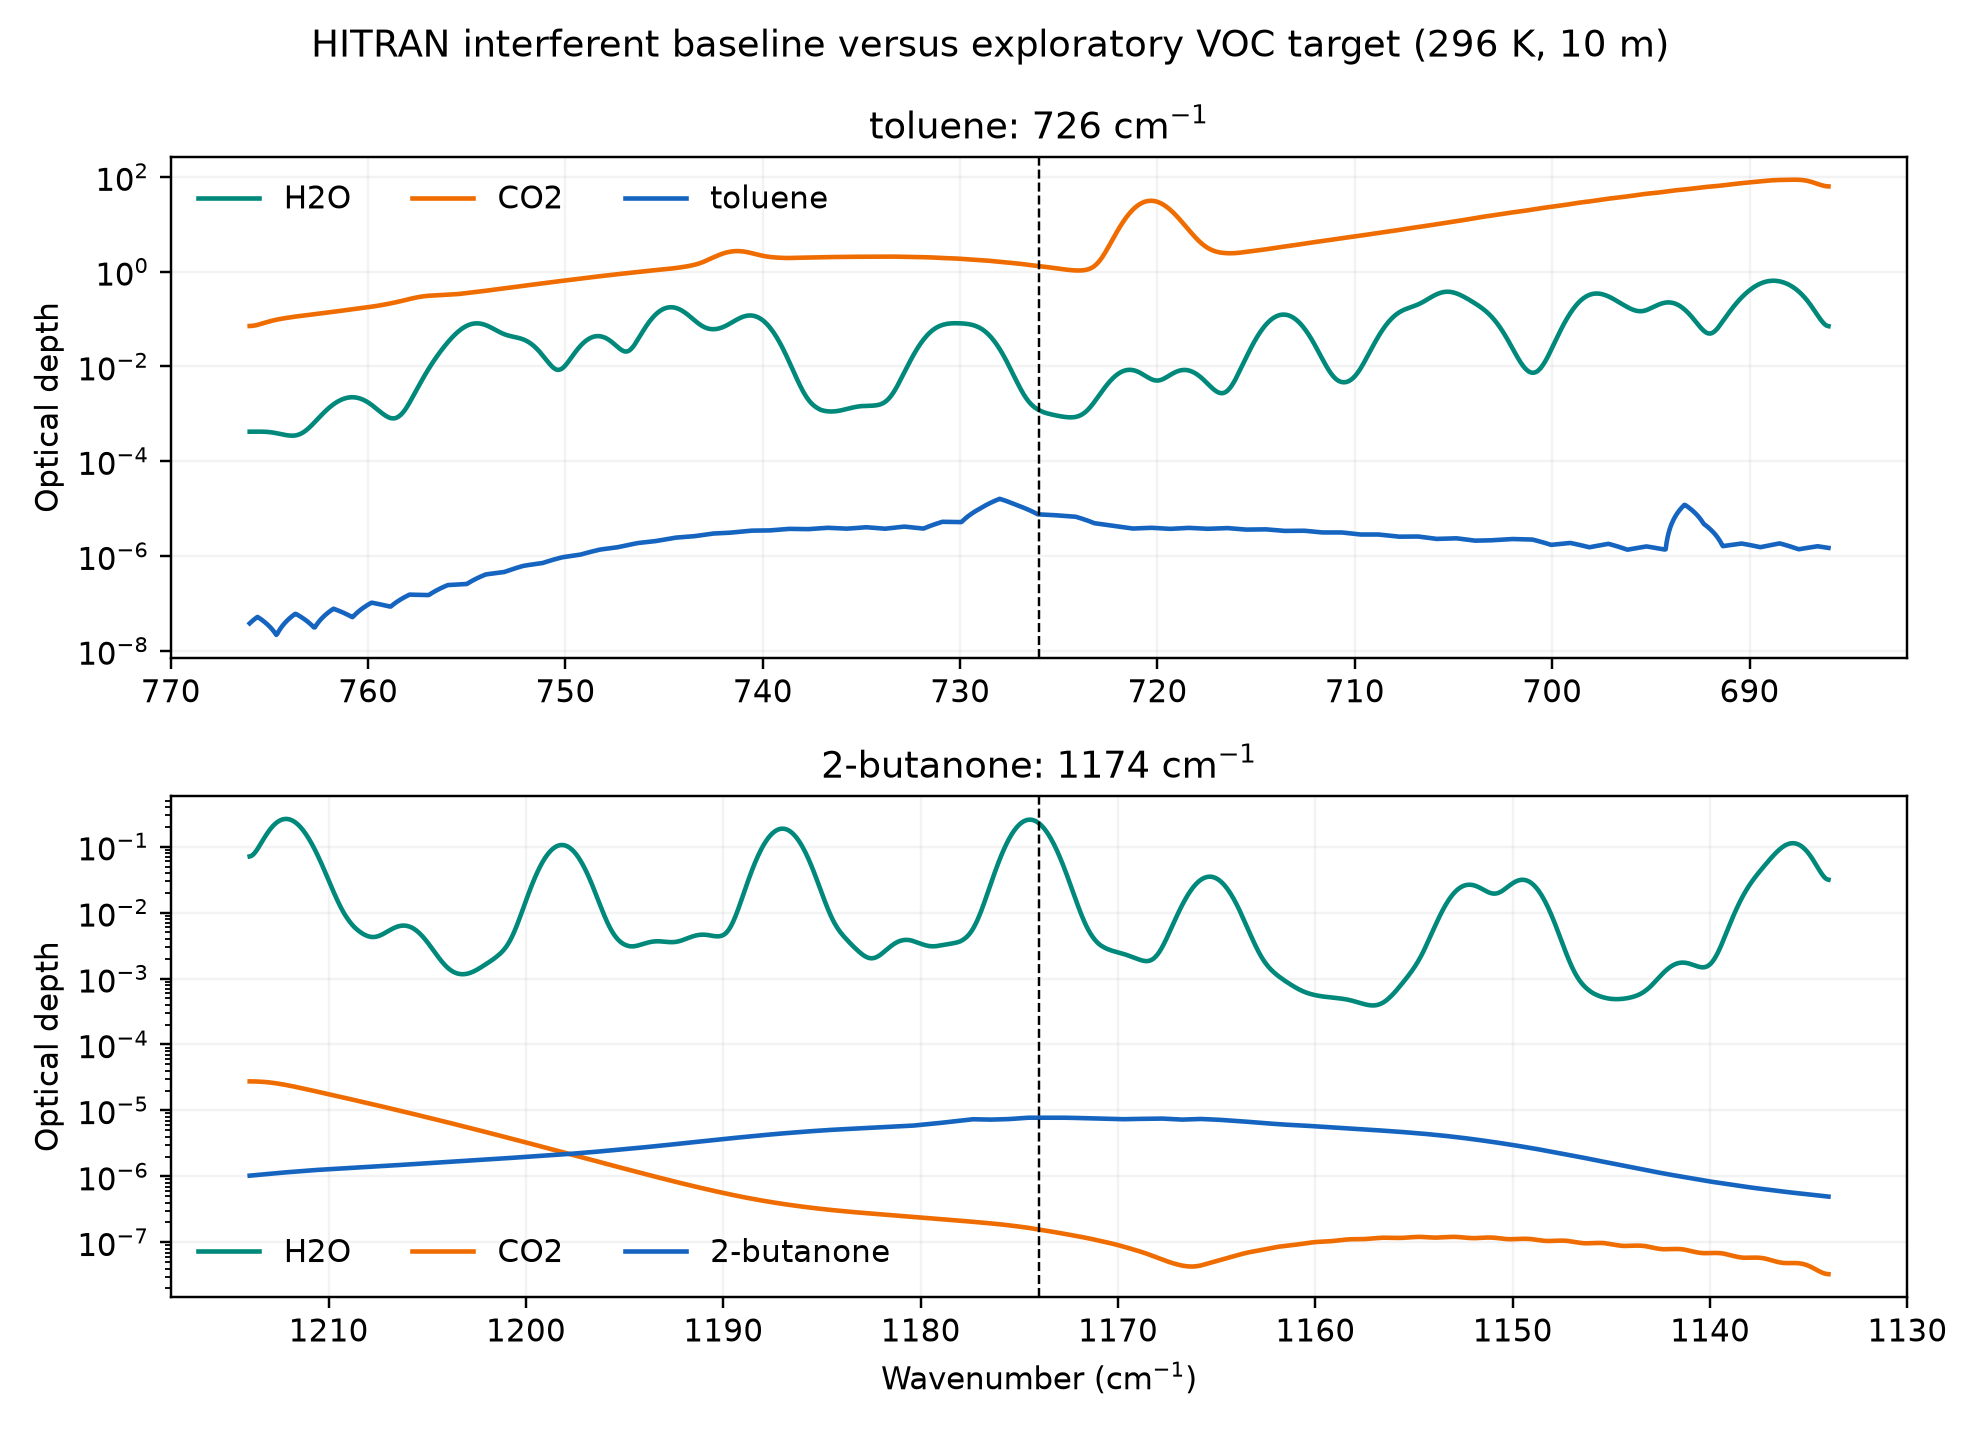
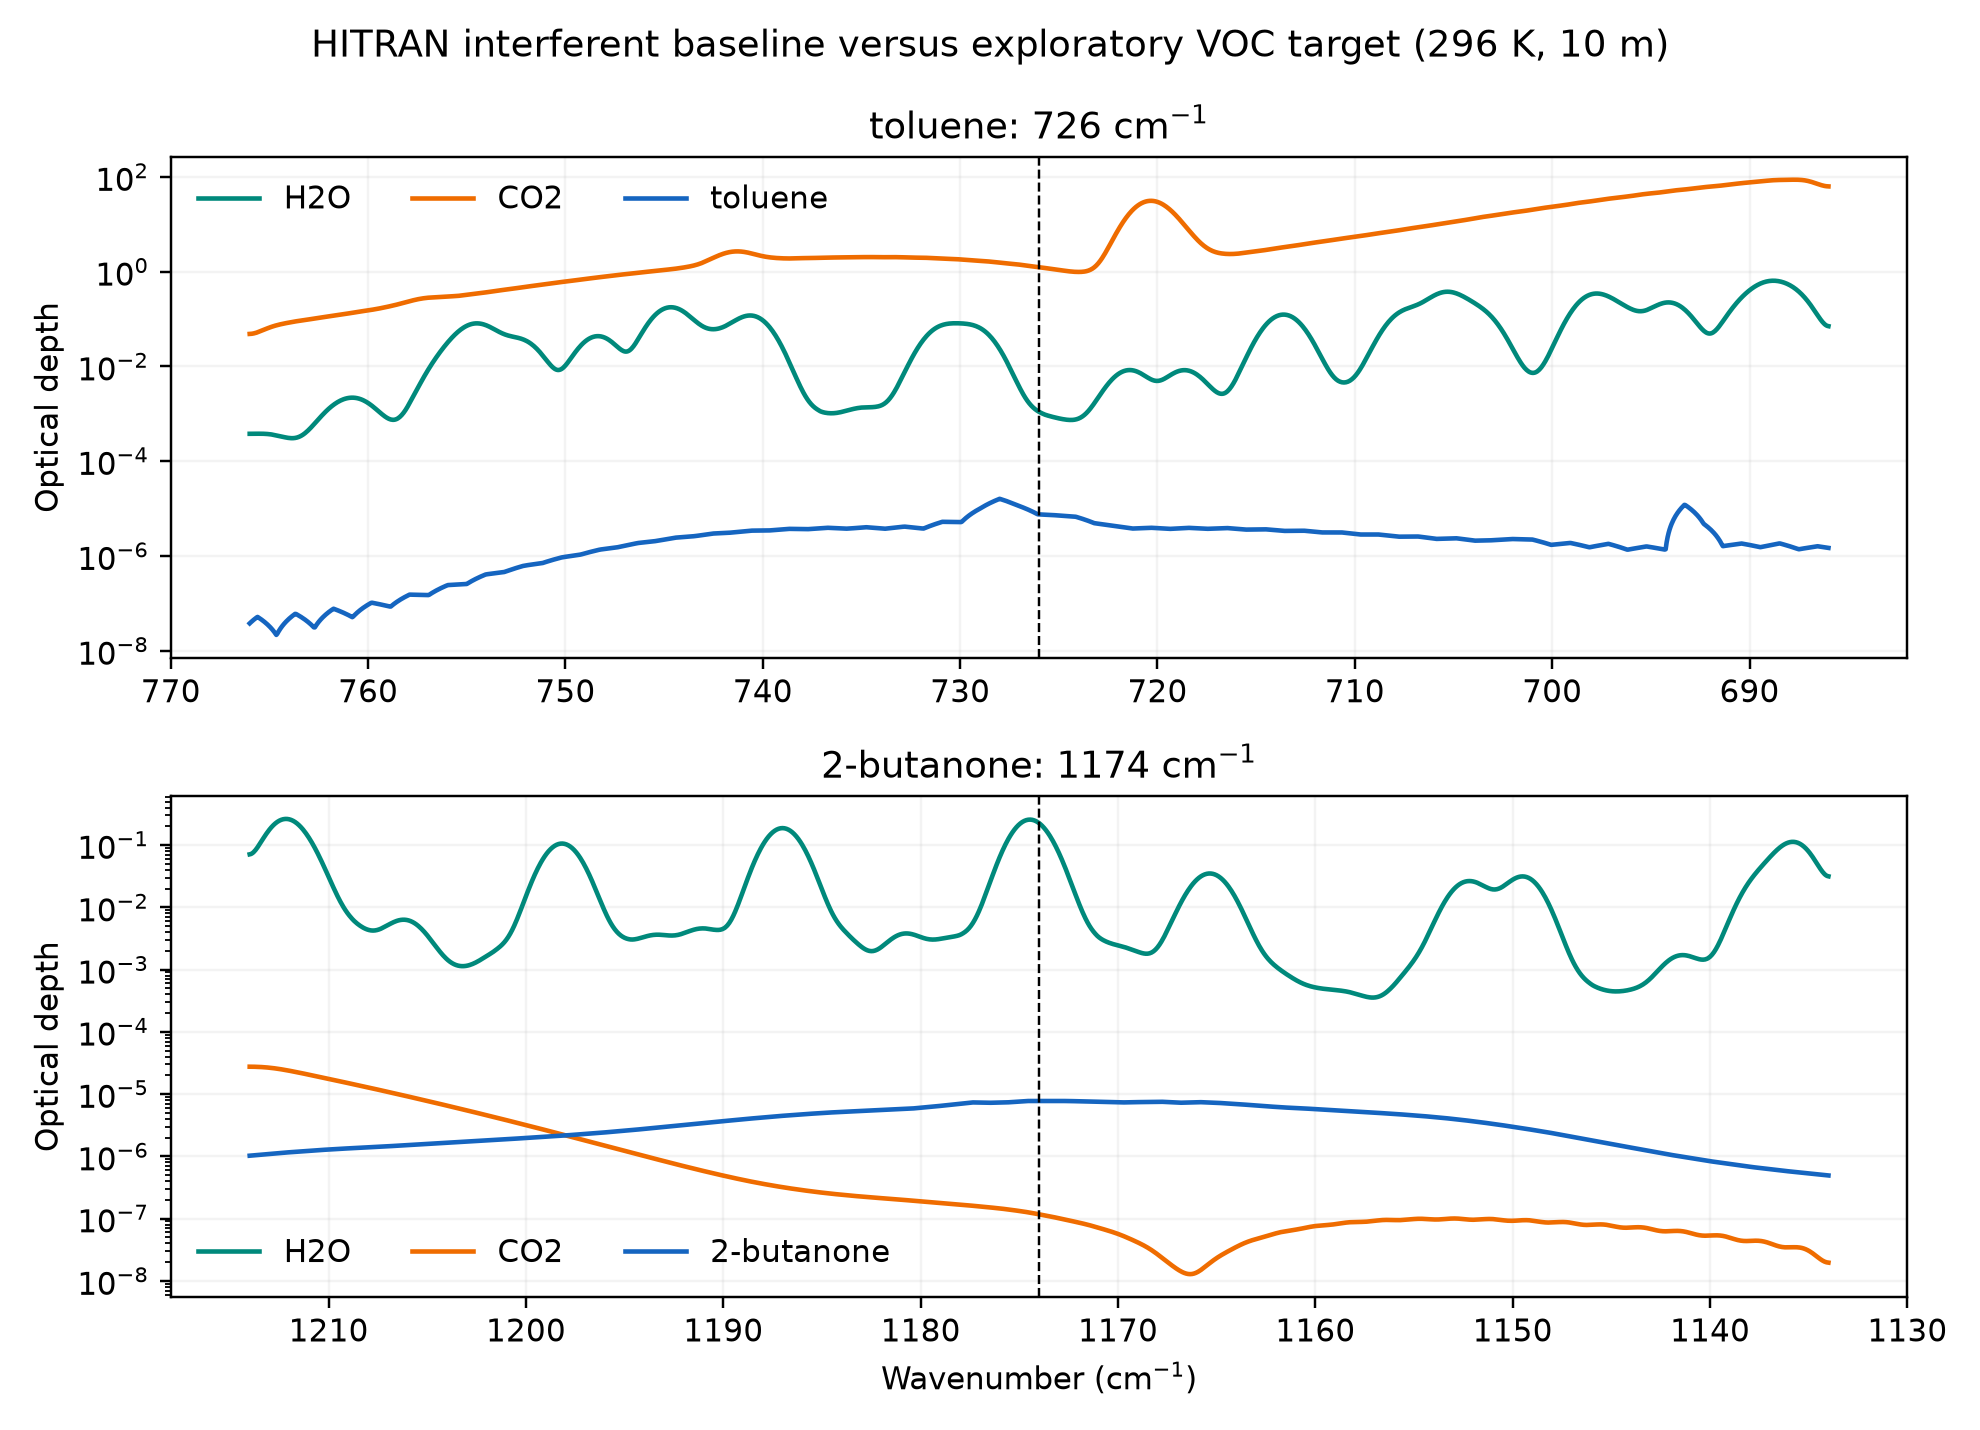
Search for lower-interference spectral windows

diff --git a/src/breath_to_photonics/window_search.py b/src/breath_to_photonics/window_search.py
@@ -1,0 +1,196 @@
+"""Search quantitative target spectra for lower-interference HITRAN windows."""
+
+from __future__ import annotations
+
+import argparse
+import json
+from pathlib import Path
+
+import matplotlib.pyplot as plt
+import numpy as np
+import pandas as pd
+from scipy.signal import find_peaks
+
+from .hitran_interference import (
+    instrument_convolve,
+    lorentz_cross_section,
+    number_density_cm3,
+    read_hitran_160,
+)
+from .resolution import broaden
+from .spectra import read_jcamp
+
+
+def search_windows(
+    hitran_root: Path,
+    target_root: Path,
+    hitran_config: dict[str, object],
+    search_config: dict[str, object],
+) -> tuple[pd.DataFrame, dict[str, object]]:
+    lines = read_hitran_160(hitran_root / hitran_config["hitran_file"])
+    lo, hi = [float(value) for value in search_config["search_range_cm-1"]]
+    step = float(hitran_config["grid_step_cm-1"])
+    grid = np.arange(lo, hi + step / 2.0, step)
+    pressure = float(hitran_config["pressure_atm"])
+    temperature = float(hitran_config["temperature_K"])
+    path_m = float(hitran_config["path_length_m"])
+    path_cm = path_m * 100.0
+    fwhm = float(hitran_config["instrument_fwhm_cm-1"])
+    wing = float(hitran_config["line_wing_cm-1"])
+    fractions = hitran_config["mole_fractions"]
+
+    optical_depths = {}
+    for gas, molecule_id in {"H2O": 1, "CO2": 2}.items():
+        fraction = float(fractions[gas])
+        cross_section = lorentz_cross_section(
+            lines.loc[lines["molecule_id"].eq(molecule_id)],
+            grid,
+            fraction,
+            pressure,
+            wing,
+        )
+        cross_section = instrument_convolve(cross_section, step, fwhm)
+        optical_depths[gas] = (
+            cross_section
+            * number_density_cm3(fraction, pressure, temperature)
+            * path_cm
+        )
+    interferent_tau = optical_depths["H2O"] + optical_depths["CO2"]
+    background_transmission = np.exp(-interferent_tau)
+
+    rows = []
+    floor = float(search_config["score_floor_optical_depth"])
+    for item in hitran_config["windows"]:
+        headers, target = read_jcamp(target_root / item["target_quant_file"])
+        target_values = broaden(
+            target["absorbance"].clip(lower=0.0).to_numpy(),
+            float(headers["DELTAX"]),
+            float(headers["RESOLUTION"]),
+            fwhm,
+        )
+        coefficient = np.interp(grid, target["wavenumber_cm-1"], target_values)
+        target_tau = (
+            np.log(10.0)
+            * coefficient
+            * float(item["target_concentration_ppb"])
+            / 1000.0
+            * path_m
+        )
+        prominence = float(search_config["minimum_relative_peak_prominence"]) * float(coefficient.max())
+        distance = max(1, int(float(search_config["minimum_peak_spacing_cm-1"]) / step))
+        peaks, properties = find_peaks(coefficient, prominence=prominence, distance=distance)
+        for peak, peak_prominence in zip(peaks, properties["prominences"]):
+            score = target_tau[peak] * background_transmission[peak] / (interferent_tau[peak] + floor)
+            rows.append(
+                {
+                    "voc": item["voc"],
+                    "name": item["name"],
+                    "center_cm-1": round(float(grid[peak]), 3),
+                    "center_um": round(10000.0 / float(grid[peak]), 4),
+                    "target_optical_depth": float(target_tau[peak]),
+                    "H2O_optical_depth": float(optical_depths["H2O"][peak]),
+                    "CO2_optical_depth": float(optical_depths["CO2"][peak]),
+                    "background_transmission": float(background_transmission[peak]),
+                    "target_peak_prominence": float(peak_prominence),
+                    "search_score": float(score),
+                }
+            )
+    result = pd.DataFrame(rows)
+    result["rank_within_voc"] = result.groupby("voc")["search_score"].rank(
+        ascending=False, method="first"
+    ).astype(int)
+    result = result.sort_values(["voc", "rank_within_voc"])
+    maximum_rank = int(search_config["maximum_rank_per_target"])
+    result = result.loc[result["rank_within_voc"].le(maximum_rank)].copy()
+    best = result.loc[result["rank_within_voc"].eq(1)]
+    summary = {
+        "status": "alternative_window_search_at_296K",
+        "search_range_cm-1": [lo, hi],
+        "best_windows": best[
+            [
+                "voc",
+                "center_cm-1",
+                "center_um",
+                "target_optical_depth",
+                "H2O_optical_depth",
+                "CO2_optical_depth",
+                "background_transmission",
+                "search_score",
+            ]
+        ].to_dict("records"),
+        "warning": search_config["warning"],
+    }
+    return result, summary
+
+
+def plot_candidates(table: pd.DataFrame, output: Path) -> None:
+    fig, axes = plt.subplots(
+        len(table["voc"].unique()),
+        1,
+        figsize=(9, 6.5),
+        squeeze=False,
+        layout="constrained",
+    )
+    for ax, (voc, group) in zip(axes[:, 0], table.groupby("voc", sort=False)):
+        scatter = ax.scatter(
+            group["center_cm-1"],
+            group["target_optical_depth"],
+            c=group["background_transmission"],
+            s=90 / np.sqrt(group["rank_within_voc"]),
+            cmap="viridis",
+            vmin=0,
+            vmax=1,
+        )
+        best = group.loc[group["rank_within_voc"].eq(1)].iloc[0]
+        ax.annotate(
+            f"best proxy: {best['center_cm-1']:.1f} cm$^{{-1}}$",
+            (best["center_cm-1"], best["target_optical_depth"]),
+            xytext=(8, 8),
+            textcoords="offset points",
+        )
+        ax.set_yscale("log")
+        ax.set_ylabel("Target optical depth")
+        ax.set_title(group.iloc[0]["name"])
+        ax.grid(alpha=0.15)
+        ax.invert_xaxis()
+    axes[-1, 0].set_xlabel("Candidate peak center (cm$^{-1}$)")
+    fig.colorbar(
+        scatter,
+        ax=axes[:, 0],
+        label="H2O + CO2 background transmission",
+        pad=0.03,
+        shrink=0.9,
+    )
+    fig.suptitle("Alternative-window search proxy (296 K baseline, 10 m)")
+    output.parent.mkdir(parents=True, exist_ok=True)
+    fig.savefig(output, dpi=220)
+    plt.close(fig)
+
+
+def main() -> None:
+    parser = argparse.ArgumentParser(description=__doc__)
+    parser.add_argument("hitran_root", type=Path)
+    parser.add_argument("target_root", type=Path)
+    parser.add_argument(
+        "--config", type=Path, default=Path("configs/alternative_window_search_v0.1.json")
+    )
+    parser.add_argument("--output", type=Path, default=Path("results/alternative_windows.csv"))
+    parser.add_argument(
+        "--summary", type=Path, default=Path("results/alternative_windows_summary.json")
+    )
+    parser.add_argument(
+        "--figure", type=Path, default=Path("results/figures/alternative_windows.png")
+    )
+    args = parser.parse_args()
+    search_config = json.loads(args.config.read_text(encoding="utf-8"))
+    hitran_config = json.loads(Path(search_config["hitran_config"]).read_text(encoding="utf-8"))
+    table, summary = search_windows(args.hitran_root, args.target_root, hitran_config, search_config)
+    args.output.parent.mkdir(parents=True, exist_ok=True)
+    table.to_csv(args.output, index=False)
+    args.summary.write_text(json.dumps(summary, indent=2) + "\n", encoding="utf-8")
+    plot_candidates(table, args.figure)
+    print(json.dumps(summary, indent=2))
+
+
+if __name__ == "__main__":
+    main()

diff --git a/tests/test_window_search.py b/tests/test_window_search.py
@@ -1,0 +1,19 @@
+import json
+from pathlib import Path
+
+import pytest
+
+from breath_to_photonics.window_search import search_windows
+
+
+def test_window_search_returns_ranked_candidates_when_raw_data_exist() -> None:
+    hitran_root = Path("data/raw/hitran")
+    target_root = Path("data/raw/spectra/nist-quant")
+    if not (hitran_root / "6a9e3e2d/6a9e3e2d.par").exists():
+        pytest.skip("Downloaded raw spectra are unavailable")
+    hitran_config = json.loads(Path("configs/hitran_interference_v0.1.json").read_text())
+    search_config = json.loads(Path("configs/alternative_window_search_v0.1.json").read_text())
+    table, summary = search_windows(hitran_root, target_root, hitran_config, search_config)
+    assert summary["status"] == "alternative_window_search_at_296K"
+    assert set(table.loc[table["rank_within_voc"].eq(1), "voc"]) == {"Toluene", "X2_Butanone"}
+    assert table["background_transmission"].between(0, 1).all()

diff --git a/src/breath_to_photonics/hitran_interference.py b/src/breath_to_photonics/hitran_interference.py
@@ -65,7 +65,13 @@ def lorentz_cross_section(
     for line_center, intensity, gamma_air, gamma_self, delta_air in numeric:
         gamma = pressure_atm * (gamma_air * air_fraction + gamma_self * mole_fraction)
         center = line_center + pressure_atm * air_fraction * delta_air
-        output += intensity * gamma / (np.pi * ((grid - center) ** 2 + gamma**2))
+        start = int(np.searchsorted(grid, center - wing_cm1, side="left"))
+        stop = int(np.searchsorted(grid, center + wing_cm1, side="right"))
+        if start < stop:
+            local_grid = grid[start:stop]
+            output[start:stop] += intensity * gamma / (
+                np.pi * ((local_grid - center) ** 2 + gamma**2)
+            )
     return output
 
 

diff --git a/docs/ALTERNATIVE_WINDOW_SEARCH_2026-09-07.md b/docs/ALTERNATIVE_WINDOW_SEARCH_2026-09-07.md
@@ -1,0 +1,35 @@
+# Alternative spectral-window search — 2026-09-07
+
+## Question
+
+After the original 726 and 1174 cm⁻¹ centers failed the quantitative H2O/CO2 baseline, can another target peak within the downloaded 650–1250 cm⁻¹ range materially reduce interference?
+
+The search evaluates peaks in the quantitative 2 cm⁻¹ NIST target spectra. Its ranking proxy rewards target optical depth and background transmission while penalizing combined H2O/CO2 optical depth. Conditions and limitations remain those of the 296 K HITRAN baseline.
+
+## Best alternatives in the downloaded range
+
+| Target | Alternative center | Background transmission | Target optical depth | Interferent/target ratio |
+|---|---:|---:|---:|---:|
+| Toluene | 1030.75 cm⁻¹ (9.7017 µm) | 99.25% | 1.06×10⁻⁶ | approximately 7,150 |
+| 2-butanone | 939.20 cm⁻¹ (10.6474 µm) | 99.03% | 1.56×10⁻⁶ | approximately 6,240 |
+
+These alternatives are substantially less opaque than the original centers: most incident light remains after the assumed 10 m background path. However, the interferent optical depth is still thousands of times larger than the ppbv target optical depth. They are therefore better *search candidates*, not viable sensor windows.
+
+The tradeoff is visible in both cases. Moving away from the strongest interference also moves to weaker target absorption. A high background transmission by itself does not solve the dynamic-range and subtraction problem.
+
+## Decision
+
+No clean single window has emerged for either exploratory VOC within 650–1250 cm⁻¹. The result does not prove that all mid-IR regions fail, because the HITRAN download does not cover the complete NIST target spectra. The next defensible options are:
+
+1. download H2O/CO2 lines covering the remaining quantitative target bands, especially the carbonyl and C–H regions;
+2. test multi-window fitting rather than one-channel peak sensing;
+3. stop promoting either compound if the expanded search remains background-dominated.
+
+The ranking score is heuristic and must not be described as selectivity, sensitivity, or limit of detection.
+
+## Reproduction
+
+```bash
+PYTHONPATH=src python -m breath_to_photonics.window_search \
+  data/raw/hitran data/raw/spectra/nist-quant
+```

diff --git a/docs/STATUS_AND_ROADMAP_2026-09-06.md b/docs/STATUS_AND_ROADMAP_2026-09-06.md
@@ -25,7 +25,7 @@ These changes were responses to observed evidence rather than parts of the initi
 
 Highest-priority scientific gaps are:
 
-1. Refine the quantitative H2O/CO2 baseline to breath temperature with line-strength scaling, line mixing, and water continuum. HITRAN lines and a 296 K first-pass screen are now complete; both current centers fail that baseline.
+1. Expand and refine the quantitative H2O/CO2 model. HITRAN lines, a 296 K first-pass screen, and an alternative-window search over 650–1250 cm⁻¹ are complete; no viable single window emerged. Remaining work includes other spectral ranges, temperature scaling, line mixing, and water continuum.
 2. Expand concentration evidence beyond the initial small asthma study. A first cross-study audit is complete and shows strong ambient sensitivity; robust asthma distributions and explicit non-detect modelling remain open.
 3. Audit GC-MS identity confidence for the exploratory annotations using retention indices and reference-standard evidence.
 4. Define an instrument noise/drift model and compare direct multipass, cavity-enhanced, and preconcentration-assisted architectures.

diff --git a/README.md b/README.md
@@ -65,3 +65,7 @@ A cross-study concentration audit confirms a low-ppbv regime and, importantly, s
 The manually downloaded HITRAN2024 H2O/CO2 lines enable a first quantitative interferent baseline. Under the declared 296 K, 1 atm, 5% H2O, 4% CO2, 10 m, and 2 cm⁻¹ assumptions, both exploratory windows are dominated by interferent optical depth. This baseline intentionally omits temperature rescaling, line mixing, water continuum, and non-Voigt effects, so it is a rejection screen rather than a final instrument simulation. See `docs/HITRAN_INTERFERENCE_BASELINE_2026-09-07.md`.
 
 ![Quantitative HITRAN interferent baseline](results/figures/hitran_interference.png)
+
+A full search within the downloaded 650–1250 cm⁻¹ range finds lower-opacity alternatives near 1030.75 cm⁻¹ for toluene and 939.20 cm⁻¹ for 2-butanone. Even there, interferent optical depth remains roughly 7,150 and 6,240 times the target signal, respectively; these are search candidates rather than viable windows. See `docs/ALTERNATIVE_WINDOW_SEARCH_2026-09-07.md`.
+
+![Alternative spectral-window search](results/figures/alternative_windows.png)

diff --git a/docs/HITRAN_INTERFERENCE_BASELINE_2026-09-07.md b/docs/HITRAN_INTERFERENCE_BASELINE_2026-09-07.md
@@ -22,8 +22,8 @@ These mole fractions are transparent engineering assumptions rather than measure
 
 | Window | Dominant interferent | Interferent optical depth | Target optical depth | Interferent/target ratio | Baseline transmission |
 |---|---|---:|---:|---:|---:|
-| Toluene, 726 cm⁻¹ | CO2 | 1.302 | 7.53×10⁻⁶ | 173,010 | 27.2% |
-| 2-butanone, 1174 cm⁻¹ | H2O | 0.2256 | 7.78×10⁻⁶ | 29,001 | 79.8% |
+| Toluene, 726 cm⁻¹ | CO2 | 1.235 | 7.53×10⁻⁶ | 164,129 | 29.1% |
+| 2-butanone, 1174 cm⁻¹ | H2O | 0.2255 | 7.78×10⁻⁶ | 28,997 | 79.8% |
 
 Both previously selected windows fail this first quantitative interference screen. At 726 cm⁻¹, the simplified CO2 baseline absorbs most of the light before the ppbv toluene contribution is considered. At 1174 cm⁻¹, the water optical depth is approximately 29,000 times the target optical depth.
 
